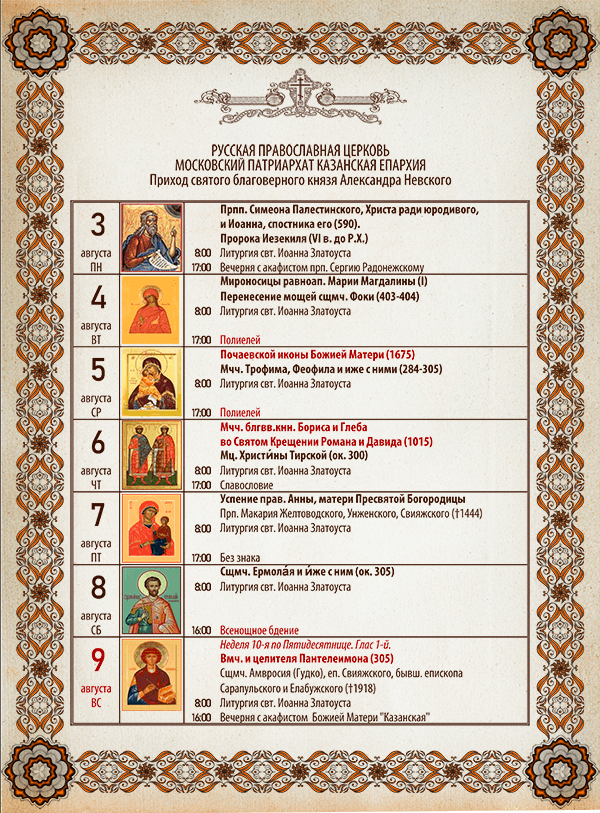
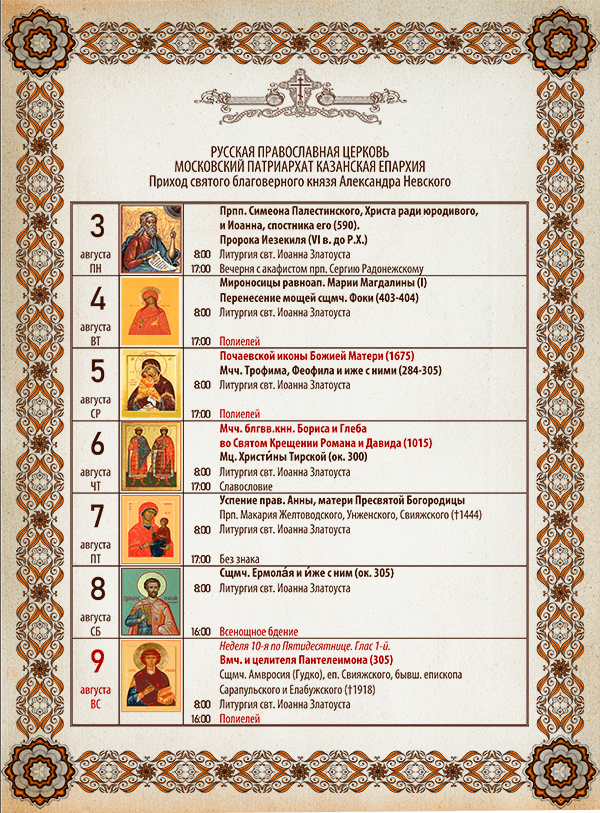
10 по 50це

Changed region(s): [[0.12, 0.1538, 0.9, 0.8918]]

diff --git a/index.html b/index.html
@@ -78,63 +78,73 @@
 
   <article id="mainArticle"><!--Статья-->
     <!--ОСНОВНОЙ ИЗМЕНЯЕМЫЙ КОНТЕНТ-->
-    <h1 class="block_title">Особенности седмицы с 27 июля по 2 августа</h1>
-    <time>26.07.26 &bull; 3 мин. на чтение</time>
+    <h1 class="block_title">Особенности седмицы с 3 по 9 августа</h1>
+    <time>02.08.26 &bull; 3 мин. на чтение</time>
     <p class="block_text">
       <!--<p align="center" style="font-size:32px ; font-weight:400; font-family: Monomakh, sans-serif; color: #a00;">Христос
       Воскресе!</p>-->
-    <p class="left_letter">Н</p>
+    <p class="left_letter">П</p>
     <p class="block_text">
-      а этой седмице достаточно много значимых дат, и о праздниках по порядку.
+      оследний месяц лета дарит нам не только ласковое солнце и щедрые плоды, но множество весомых поводов вдохновиться
+      духовными подвигами прославленных святых.
     </p>
 
     <div class="img-content-box">
-      <img class="img-content" src="img\amain_img\ниж храм.png" alt="Фото">
+      <img class="img-content" src="img\amain_img\малхрам.png" alt="Фото">
       <br><br>
-      <button class="gray-button" type="button"><a href="img\amain_img\9 седмица по 50_900.png">Посмотреть
+      <button class="gray-button" type="button"><a href="img\amain_img\10 седмица по 50_900.png">Посмотреть
           расписание</a></button>
     </div>
 
     <p class="block_text">
-      <p class="left_letter">П</p> понедельник, 27 июля, Церковь молитвенно вспоминает преподобного Никодима Святогорца. Святой, живший во
-      второй половине 18 века - начале 19, был выдающимся афонским подвижником и богословом. Он наизусть знал все
-      Священное Писание, оставил после себя богатейшее духовное наследие, в том числе канон Пресвятой Богородице.
-      <br><br>
-      <p class="left_letter">В</p>торник, 28 июля, - день памяти святого равноапостольного великого князя Владимира, во Святом Крещении
-      Василия. Его воле и Божьему Промыслу мы обязаны Крещением Руси в 988 году. За 28 лет христианского правления
-      святой распространил христианскую веру по всей стране, от Новгорода до Ростова, заложив основу единого государства
-      и его развития.
-      <br><br>
-      <p class="left_letter">С</p>реда, 29 июля, установлено празднество в честь святых отцов 4-го Вселенского Собора. На нём была
-      опровергнута и осуждена ересь Евтихия, было утверждено равное и неделимое совершенство Спасителя в Божественной и
-      человеческой ипостаси.
-      <br><br>
-      <p class="left_letter">Ч</p>етверг, 30 июля, Казанская земля будет молитвенно чтить преподобгого Гавриила (Зырянова) Седмиезерного,
-      схиархимандрита, духовного наставника, старца. Он был духовником преподобномученицы великой княгини Елизаветы,
-      оставил десятки учеников, будущих исповедников: никто из них не отрекся от Христа в застенках НКВД, не ушел в
-      обновленчество. Сам преподобный принял схиму в возрасте 48 лет и прошел трудный путь — через тяжелую болезнь,
-      клевету и изгнание из монастыря.<br> Вся жизнь схиархимандрита Гавриила — свидетельство последних слов,
-      произнесенных им на смертном одре: «Спастися подобает многими скорбями». А вместе с тем — и слов, сказанных
-      когда-то маленьким Ганей своим родителям:
-      <br>
-      — Я не ваш, я не ваш.<br>
-      — А чей же ты?<br>
-      — Я — Божий.
-      <br><br>
-      Также сегодня свои именины будут отмечать многие христианки, крещёные в честь великомученицы Марины (Маргариты)
-      Антиохийской. Еще подростком она тайно приняла Крещение, а в 15 лет открыто исповедовала христианскую веру. Была
-      подвергнута жестоким пыткам, явила по Божьей воле множество чудотворений. Это привело к христианской вере тысячи
-      язычников. Была обезглавлена, но не сломлена.
-      <br><br>
-      <p class="left_letter">С</p>уббота, 1 августа, - обретение мощей одного из самых любимых русских святых - преподобного Серафима
-      Саровского. Это произошло в 1903 году при многотысячном стечении богомольцев и участии императорской семьи. В тот
-      день многие верующие по молитвам великому святому получили исцеление и помощь.
-      <br><br>
-      <p class="left_letter">В</p>оскресенье, 2 августа, Церковь молитвенно чтит величайшего ветхозаветного пророка - Илию. Святой родился
-      за 900 лет до Рождества Христова, прославился строгой аскезой, чудотворениями и даром прозорливости, ревностно
-      обличал идолопоклонство. За веру и праведность Бог взял святого пророка Илию яко на Небо живым, в огненной колеснице.
-      Вместе со святым пророком Моисеем являлся во время Преображения Господня. По преданию, станет Предтечей Второго
-      Пришествия Спасителя.
+    <p class="left_letter">В</p>торник, 4 августа, Церковь молитвенно чтит святую мироносицу равноапостольную Марию
+    Магдалину. Она была верной последовательницей Спасителя, очевидцем Его распятия, погребения, первой узнавшей о
+    Воскресении Христа. По преданию, именно в руках святой, в подтверждение её свидетельства о Воскресении Господа, яйцо
+    окрасилось в красный цвет. Так родилась традиция красить яйца на Светлую Пасху.
+    <br><br>
+    <p class="left_letter">С</p>реда, 5 августа, в этот день с особым упованием и надеждой будут возноситься молитвы
+    перед чудотворной Почаевской иконой Божией Матери. История святыни тесно связана с явлением Пресвятой Богородицы,
+    оставившей след ноги на камне, и основанием в этих местах Успенской Почаевской лавры.
+    <br><br>
+    Также в этот день верующие молитвенно вспоминают праведного Феодора Ушакова. Святой, талантливый флотоводец, всей
+    своей жизнью доказал, что честное служение Богу и Отечеству неразделимы.
+    <br><br>
+    <p class="left_letter">Ч</p>етверг, 6 августа, день памяти святых благоверных князей Бориса и Глеба, в Святом
+    Крещении Романа и Давида. Они стали первыми мучениками, канонизированными Русской Православной Церковью.
+    <br><br>
+    <p class="left_letter">П</p>ятница, 7 августа, молитвенно вспоминается святая мать Пречистой Девы - праведная Анна.
+    Святая стала для нас примером глубокой веры и упования на Бога.
+    <br><br>
+    Также в это день Святая Церковь молитвенно чтит преподобного Макария Желтоводского, Унженского, Свияжского. Его чаще
+    всего знают по обители у Жёлтого озера (отсюда «Желтоводский»), но он также создал Унженскую обитель (на берегу реки
+    Унжи в Костромской земле) и именно с Свиягой связана особая страница его пути.
+    <br>
+    В 1439 году войска хана Улу-Мухаммеда разорили Желтоводский монастырь. Часть братии убили, самого Макария взяли в
+    плен. Но хан, впечатлившись благочестием старца, отпустил его и ещё около 400 христиан. На обратном пути путники
+    остановились на правом берегу устья реки Свияги (примерно в двух километрах от Свияжска). По преданию, Макарий
+    совершил здесь благодарственный молебен и сам выбрал это место — он как бы освятил его молитвой. Умирая, святой
+    заповедал духовным чадам со временем основать здесь обитель.
+    <br>
+    Правда, сам Макарий не успел воплотить это в жизнь — он отправился дальше, в галичские края, где основал Унженскую
+    обитель. А вот обет его последователи исполнили спустя много лет. В первой половине XVII века из Унженского
+    монастыря пришёл схимонах Исаия. Он отыскал то самое место близ устья Свияги и основал там Макарьевскую Свияжскую
+    подгорную (подгорная — то есть «под горой», на возвышенности) Вознесенскую мужскую обитель. Точный год этого события
+    неизвестен, но сам подвижник Исайя — историческая личность, — скончался в схиме 10 декабря 1661 года. Стало быть,
+    основание совершилось где-то в первой половине XVII века, и таким образом Макарьевская пустынь — почти ровесница
+    Раифской. <br>Так в церковной традиции
+    и появилось сочетание «Желтоводский, Унженский и Свияжский» — оно подчёркивает масштаб духовного подвига святого и
+    связь основанных им обителей с разными уголками Поволжья.
+    <br><br>
+    <p class="left_letter">В</p>оскресенье, 9 августа, день памяти великомученика Пантелеимона Целителя. Прославленному
+    святому, при жизни наделённому Богом даром целительства и врачевания, особо молятся об излечении тяжёлых недугов,
+    успешных операциях и здоровье.
+    <br><br>
+    Также в это день вспоминаем сщмч. Амвросия (Гудко), еп. Свияжского. Окончив Санкт-Петербургскую духовную академию,
+    принял монашество и посвятил жизнь миссионерству ‒ служил на Алтае, возглавлял Корейскую духовную миссию, был
+    ректором семинарий. С 1904 года ‒ епископ, известный обличениями злоупотреблений властей. После революции, находясь
+    в Свияжском монастыре, открыто выступал против атеистической пропаганды. Дважды оправданный судом (несмотря на
+    доносы недоброжелателей), был расстрелян без суда 27 июля 1918 года красноармейцами. Прославлен в лике святых в 2000
+    году.
     </p>
     <!--КОНЕЦ ОСНОВНОГО ИЗМЕНЯЕМОГО КОНТЕНТА-->
   </article>
